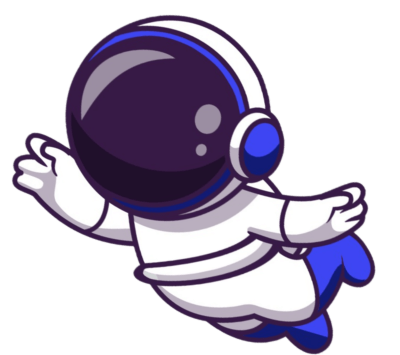
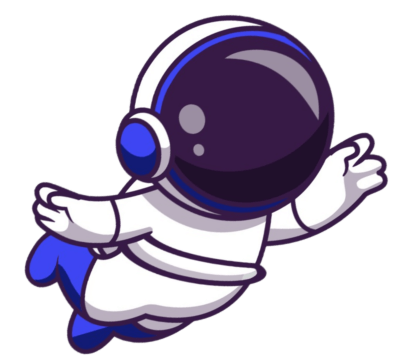
agregada la libreria AOS para scroll como prueba

diff --git a/index.html b/index.html
@@ -12,6 +12,7 @@
 			href="https://fonts.googleapis.com/css2?family=Lato:wght@300&display=swap"
 			rel="stylesheet"
 		/>
+		<link rel="stylesheet" href="https://unpkg.com/aos@next/dist/aos.css" />
 		<title>FLIPPED EDU</title>
 	</head>
 	<body class="hidden">
@@ -64,6 +65,8 @@
 		</section>
 		<section class="presentacion">
 			<img
+				data-aos="zoom-in-left"
+				data-aos-duration="2000"
 				src="imagenes/Flipped-01.svg"
 				alt="Astronauta flip flotando"
 				class="presentacion__flip"
@@ -73,16 +76,16 @@
 				<img src="imagenes/luna-png.png" alt="Dibujo de la luna" class="presentacion__luna" />
 			</div>
 
-			<div class="presentacion__contenedor">
+			<div class="presentacion__contenedor" data-aos="fade-up" data-aos-duration="2000">
 				<button class="presentacion__button">Inscribite acá</button>
 				<p class="presentacion__dudas">¿Tenes dudas? Escribinos al 23456789</p>
 			</div>
 		</section>
 		<section class="quienes-somos" id="quienes-somos">
-			<h2 class="quienes-somos__h2">
+			<h2 class="quienes-somos__h2" data-aos="fade-up" data-aos-duration="2000">
 				<span class="h2__span">¿</span>Quiénes somos<span class="h2__span">?</span>
 			</h2>
-			<div class="quienes-somos__contenedor">
+			<div class="quienes-somos__contenedor" data-aos="fade-up" data-aos-duration="2000">
 				<div class="card">
 					<img
 						src="imagenes/Recurso 11Nosotrxs.jpg"
@@ -105,6 +108,8 @@
 				</div>
 			</div>
 			<img
+				data-aos="zoom-in-right"
+				data-aos-duration="2000"
 				src="imagenes/flip-png2.png"
 				alt="Astronauta Flip flotando"
 				class="quienes-somos__flip"
@@ -112,7 +117,7 @@
 		</section>
 		<section class="cursos" id="cursos">
 			<h2 class="cursos__h2">CURSOS</h2>
-			<div class="cursos__container">
+			<div class="cursos__container" data-aos="fade-up" data-aos-duration="2000">
 				<ul id="autoWidth" class="cs-hidden cursos__lista">
 					<li class="cursos__item">
 						<h3 class="cursos__nombre">CURSO 1</h3>
@@ -136,12 +141,15 @@
 					</li>
 				</ul>
 			</div>
-			<button class="cursos__button">INSCRIPCIONES</button>
+			<button class="cursos__button" data-aos="fade-up" data-aos-duration="2000">
+				INSCRIPCIONES
+			</button>
 		</section>
 		<script src="js/jquery-v3.6.0.js"></script>
 		<script src="js/preloader.js"></script>
 		<script src="js/lightslider.js"></script>
 		<script src="js/nav-active.js"></script>
+		<script src="https://unpkg.com/aos@next/dist/aos.js"></script>
 		<script src="js/main.js"></script>
 		<script src="js/slide.js"></script>
 	</body>

diff --git a/css/style.css b/css/style.css
@@ -95,9 +95,15 @@ html {
   scroll-behavior: smooth;
 }
 
+body {
+  background-color: #000244;
+  overflow-x: hidden;
+}
+
 h2 {
   font-family: "Harabara", sans-serif, -apple-system, "Open Sans";
   letter-spacing: 1.5px;
+  font-size: 26px;
 }
 
 .h2__span {
@@ -133,6 +139,7 @@ h2 {
 }
 .nav .nav__ul .nav__li .nav__enlace {
   width: 100%;
+  font-size: 18px;
   display: flex;
   justify-content: center;
   align-items: center;
@@ -276,6 +283,7 @@ h2 {
 @media (max-width: 576px) {
   .presentacion .presentacion__cont-video .presentacion__video {
     max-width: 300px;
+    margin: 0 5px;
   }
 }
 .presentacion .presentacion__cont-video .presentacion__luna {
@@ -333,7 +341,6 @@ h2 {
   flex-wrap: wrap;
 }
 .quienes-somos .quienes-somos__contenedor .card {
-  padding: 20px;
   margin: 20px;
   border-radius: 3px;
   display: flex;
@@ -348,12 +355,19 @@ h2 {
 .quienes-somos .quienes-somos__contenedor .card .card__nombre {
   margin: 25px 0 5px;
 }
+.quienes-somos .quienes-somos__contenedor .card .card__info {
+  text-align: center;
+}
 .quienes-somos .quienes-somos__flip {
   position: absolute;
   width: 180px;
   bottom: -80px;
   left: 40px;
-  transform: scaleX(-1);
+}
+@media (max-width: 768px) {
+  .quienes-somos .quienes-somos__flip {
+    width: 130px;
+  }
 }
 
 .cursos {

diff --git a/scss/views/_index.scss b/scss/views/_index.scss
@@ -86,6 +86,7 @@
 			z-index: 10;
 			@media (max-width: 576px) {
 				max-width: 300px;
+				margin: 0 5px;
 			}
 		}
 		.presentacion__luna {
@@ -141,7 +142,7 @@
 		justify-content: space-evenly;
 		flex-wrap: wrap;
 		.card {
-			padding: 20px;
+			// padding: 20px;
 			margin: 20px;
 			// background-color: rgba(12, 12, 12, 0.575);
 			border-radius: 3px;
@@ -156,6 +157,9 @@
 			.card__nombre {
 				margin: 25px 0 5px;
 			}
+			.card__info {
+				text-align: center;
+			}
 		}
 	}
 	.quienes-somos__flip {
@@ -163,7 +167,9 @@
 		width: 180px;
 		bottom: -80px;
 		left: 40px;
-		transform: scaleX(-1);
+		@media (max-width: 768px) {
+			width: 130px;
+		}
 	}
 }
 .cursos {

diff --git a/scss/layout/_nav.scss b/scss/layout/_nav.scss
@@ -21,6 +21,7 @@
 			width: 20%;
 			.nav__enlace {
 				width: 100%;
+				font-size: 18px;
 				display: flex;
 				justify-content: center;
 				align-items: center;
@@ -33,12 +34,14 @@
 			.nav__enlace:hover {
 				color: $color-blanco;
 				background-color: $color-azul-medio;
+				// background: $gradiente;
 			}
 		}
 		.active {
 			.nav__enlace {
 				color: $color-blanco;
 				background-color: $color-azul-medio;
+				// background: $gradiente;
 			}
 		}
 		@media (max-width: 768px) {

diff --git a/scss/base/_estilos-generales.scss b/scss/base/_estilos-generales.scss
@@ -7,9 +7,14 @@
 html {
 	scroll-behavior: smooth;
 }
+body {
+	background-color: $color-azul-muy-oscuro;
+	overflow-x: hidden;
+}
 h2 {
 	font-family: 'Harabara', sans-serif, -apple-system, 'Open Sans';
 	letter-spacing: 1.5px;
+	font-size: 26px;
 }
 .h2__span {
 	font-family: 'Franklin Gothic Medium', 'Arial Narrow', Arial, sans-serif;

diff --git a/js/main.js b/js/main.js
@@ -7,3 +7,6 @@ $('#nav__ul').onePageNav({
 	filter: '',
 	easing: 'swing',
 });
+
+// inicio de libreria AOS
+AOS.init();
